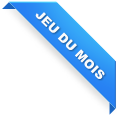
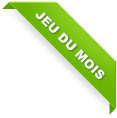
Intégration benjamin sur ordi thomas

Changed region(s): [[0.0, 0.0, 1.0, 0.9915]]

diff --git a/src/Witty/FooterBundle/Resources/public/css/footer.css b/src/Witty/FooterBundle/Resources/public/css/footer.css
@@ -1,12 +1,228 @@
 /* Footer */
 
-#footer{
+footer{
 	background-color:#FFF;
-	height: 69px;
+	height: 100%;
 	width:100%;
 	margin-left: auto;
 	margin-right: auto;
 	position: relative;
 	border-top: solid 3px #4270be;
-	margin-top:20px;
+	margin-top:30px;
+}
+
+/* Footer - partie du haut*/
+
+#footer1{
+	display:block;
+	height:95px;
+	width:1000px;
+	margin-left:auto;
+	margin-right:auto;
+}
+
+.bloc_footer1{
+	display:block;
+	height:55px;
+	width:215px;
+	padding:20px 10px 20px 20px;
+	float:left;
+}
+
+.filet_footer1{
+	border-right: solid 1px #DDDBDB;
+}
+
+.texte_footer1 {
+	font-family:Arial, Helvetica, sans-serif;
+	margin-left: auto;
+	margin-right: auto;
+	position: relative;
+	font-size:0.850em;
+	color:#514846;
+	margin-top:2px;
+	margin-bottom:10px;
+}
+
+.texte_footer2 {
+	font-family:Arial, Helvetica, sans-serif;
+	margin-left: auto;
+	margin-right: auto;
+	position: relative;
+	font-size:0.700em;
+	color:#514846;
+	margin-top:5px;
+}
+
+.texte_footer3 {
+	font-family:Arial, Helvetica, sans-serif;
+	margin-left: auto;
+	margin-right: auto;
+	position: relative;
+	font-size:0.700em;
+	color:#514846;
+	margin-top:5px;
+	font-weight:bold;
+}
+
+.texte_footer_hover{
+	 color:#514846;
+}
+
+.texte_footer_hover:hover {
+	 text-decoration:underline;
+	 color:#514846;
+	 cursor:pointer;
+}
+
+.icon_cadena{
+	display:block;
+	margin-left:auto;
+	margin-right:auto;
+	height:15px;
+	width:16px;
+	background-image: url(../../wittyfooter/images/icon_cadena.png);
+	float:left;
+	margin-right:10px;
+}
+
+.icon_livraison{
+	display:block;
+	margin-left:auto;
+	margin-right:auto;
+	height:15px;
+	width:16px;
+	background-image: url(../../wittyfooter/images/icon_livraison.png);
+	float:left;
+	margin-right:10px;
+}
+
+.icon_service{
+	display:block;
+	margin-left:auto;
+	margin-right:auto;
+	height:15px;
+	width:16px;
+	background-image: url(../../wittyfooter/images/icon_service.png);
+	float:left;
+	margin-right:10px;
+}
+.icon_satisfait{
+	display:block;
+	margin-left:auto;
+	margin-right:auto;
+	height:15px;
+	width:16px;
+	background-image: url(../../wittyfooter/images/icon_satisfait.png);
+	float:left;
+	margin-right:10px;
+}
+
+.img_cb{
+	display:block;
+	margin-left:auto;
+	margin-right:auto;
+	height:22px;
+	width:114px;
+	background-image: url(../../wittyfooter/images/cb.png);
+	margin-top:10px;
+	margin-left:0px;
+}
+
+/* Footer - partie du milieu*/
+
+#footer2{
+	display:block;
+	background-color:#f7f7f7;
+	height: 190px;
+	width:100%;
+	margin-left: auto;
+	margin-right: auto;
+	position: relative;
+	border-top: solid 1px #DDDBDB;
+	border-bottom: solid 1px #DDDBDB;
+}
+
+#footer_contenu{
+	display:block;
+	width:1000px;
+	margin-left: auto;
+	margin-right: auto;
+}
+
+.bloc_footer2{
+	display:block;
+	height:55px;
+	width:215px;
+	padding:20px 10px 20px 20px;
+	float:left;
+}
+
+.logo_facebook{
+	display:block;
+	margin-left:auto;
+	margin-right:auto;
+	height:18px;
+	width:48px;
+	background-image: url(../../wittyfooter/images/logo_facebook.png);
+	margin-top:10px;
+	margin-right:12px;
+	float:left;
+}
+
+.logo_twitter{
+	display:block;
+	margin-left:auto;
+	margin-right:auto;
+	height:18px;
+	width:58px;
+	background-image: url(../../wittyfooter/images/logo_twitter.png);
+	margin-top:10px;
+	margin-right:12px;
+	float:left;
+}
+.logo_dailymotion{
+	display:block;
+	margin-left:auto;
+	margin-right:auto;
+	height:18px;
+	width:80px;
+	background-image: url(../../wittyfooter/images/logo_dailymotion.png);
+	margin-top:10px;
+	float:left;
+}
+
+.logo_footer{
+	display:block;
+	margin-left:auto;
+	margin-right:auto;
+	height:25px;
+	width:199px;
+	background-image: url(../../wittyfooter/images/logo_footer.png);
+	margin-top:10px;
+	margin-left:0px;
+}
+
+/* Footer - partie du bas*/
+
+#footer3{
+	display:block;
+	background-color:#fff;
+	height: auto;
+	width:100%;
+	margin-left: auto;
+	margin-right: auto;
+	position: relative;
+}
+
+.copyright {
+	font-family:Arial, Helvetica, sans-serif;
+	margin-left: auto;
+	margin-right: 30px;
+	position: relative;
+	font-size:0.700em;
+	color:#514846;
+	margin-top:10px;
+	margin-bottom:10px;
+	float:right;
 }

diff --git a/src/Witty/UserBundle/Resources/public/css/profil.css b/src/Witty/UserBundle/Resources/public/css/profil.css
@@ -59,3 +59,24 @@
 	color:#999;
 	box-shadow: 2px 2px 2px 0px rgba(0, 0, 0, .4) inset;
 }
+
+.avatar{
+	display:block;
+	float:right;
+}
+
+.img_avatar{
+	display:block;
+	margin-left:auto;
+	margin-right:auto;
+	height:160px;
+	width:160px;
+}
+
+.texte_profil {
+    color: #514846;
+    font-family: Arial,Helvetica,sans-serif;
+    font-size: 0.813em;
+    font-weight: bold;
+    margin-bottom: 10px;
+}

diff --git a/src/Witty/ProjectBundle/Resources/public/css/list_projects.css b/src/Witty/ProjectBundle/Resources/public/css/list_projects.css
@@ -14,7 +14,7 @@
 
 .ruban{
 	display:block;
-	background-image:url(../images/ruban2.png);
+	background-image:url(../images/ruban.png);
 	width:117px;
 	height:117px;
 	position:absolute;

diff --git a/src/Witty/ProjectBundle/Resources/public/css/project.css b/src/Witty/ProjectBundle/Resources/public/css/project.css
@@ -25,6 +25,12 @@ section{
 	width:660px;
 }
 
+#bloc_contreparties{
+	display:block;
+	width:285px;
+	float:right;
+}
+
 
 /* --- Sous-menu --- */
 
